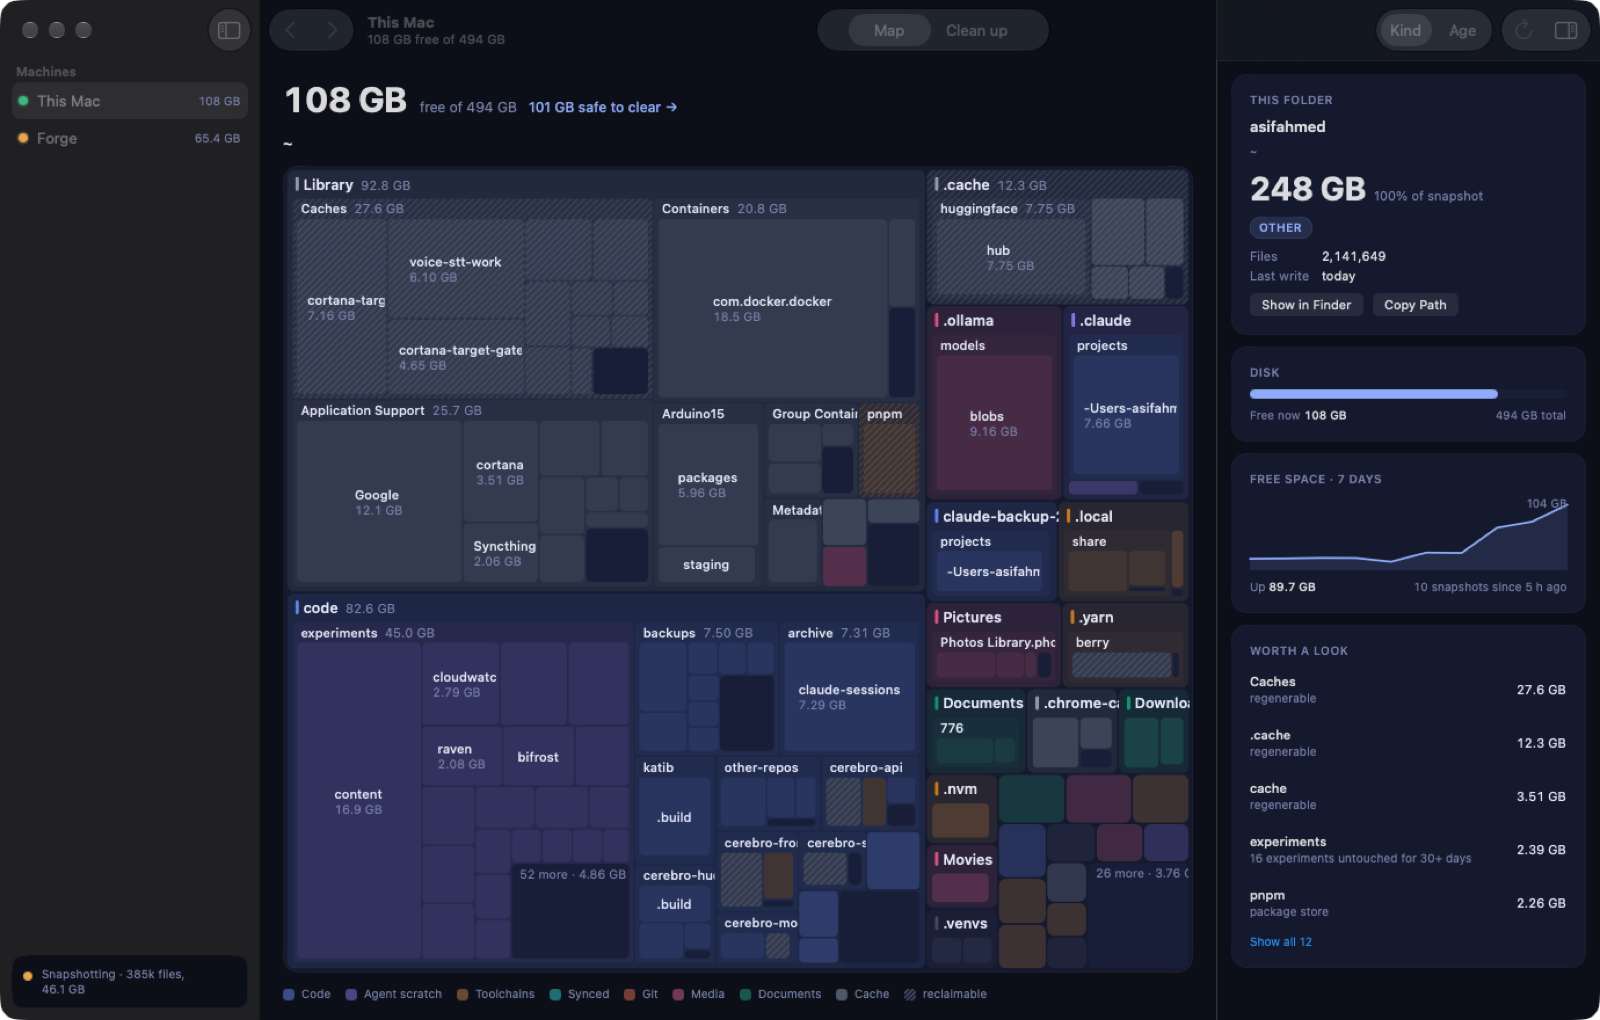
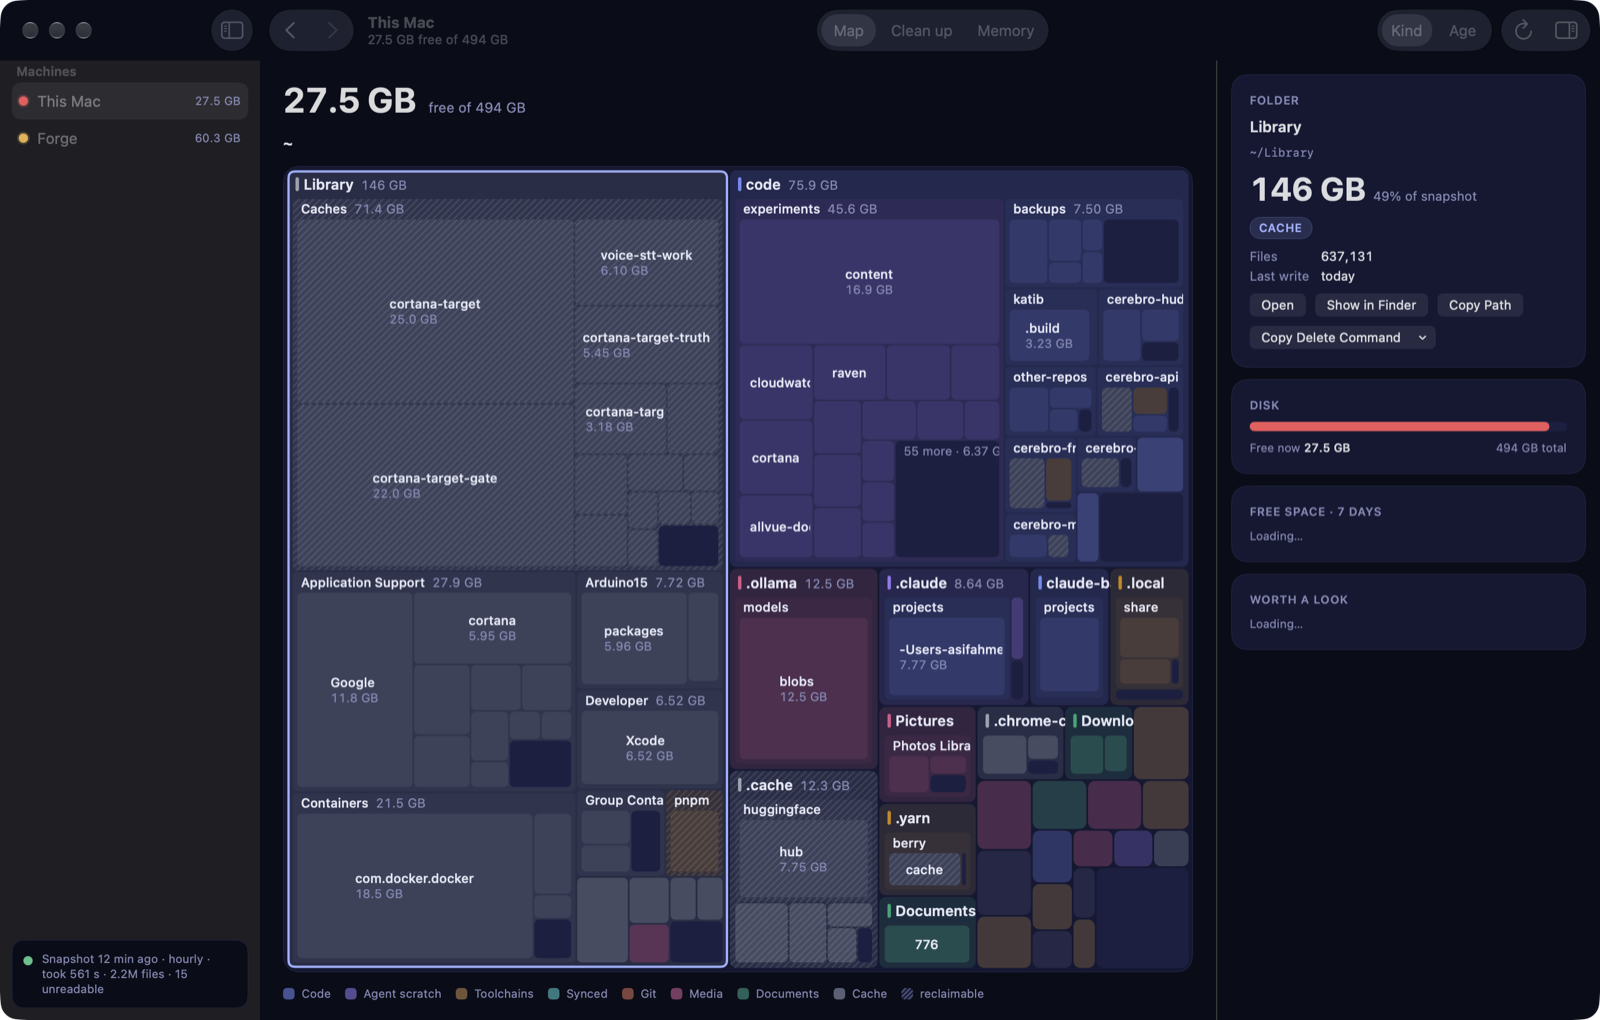
Guilty Spark docs: memory in the README, fresh screenshots, a known issue
- README: disk-mem and the Memory page; relaunch on crash; Memory screenshot.
- Map, zoom and dark screenshots retaken with the one-bar toolbar.
- GUILTY-SPARK.md: /suggest takes 5-33 s under heavy load, past the app's 30 s
  timeout (open).

diff --git a/README.md b/README.md
@@ -1,6 +1,6 @@
 # disktree
 
-> **This fork adds Guilty Spark: a read-only macOS disk advisor with hourly history.**
+> **This fork adds Guilty Spark: a read-only macOS disk and memory advisor with history.**
 > Upstream disktree is a GPUI app for Omarchy (Linux) that marks and removes files.
 > This fork keeps its core (`disktree-core`: scanning, layout, classification) and adds
 > macOS parts that **only suggest; nothing in them deletes anything**:
@@ -19,7 +19,15 @@
 >   offers Show in Finder, Copy Path and **Copy Delete Command**: the owner's cleanup for
 >   a known cache (`npm cache clean --force`, `uv cache clean`, …) or `trash '<path>'`,
 >   for you to paste. The app never deletes anything itself. The same view is also a
->   browser page at `http://127.0.0.1:7321`.
+>   browser page at `http://127.0.0.1:7321`. A launchd agent relaunches the app after a
+>   crash, and the menu panel counts crashes.
+> - **`disk-mem`**: memory over time (it replaced a swap watchdog). Every 5 minutes it
+>   records pressure, swap and each owner's memory into `mem.db`: a Claude Code session,
+>   a pm2 app, a launchd job or an app, summed across its processes. It uses
+>   `phys_footprint`, Activity Monitor's figure, not RSS, which leaves out compressed
+>   memory. It also records resident Ollama models. It notifies when pressure changes,
+>   and only then. The app's **Memory** page shows it; `disk-mem top` and
+>   `disk-mem owner NAME --days 7` answer from the terminal.
 > - **Core additions**: `ScanOptions::exclude` lists a directory without opening it.
 >   `ScanOptions::fold_below` sums small files and small directory subtrees into one
 >   leaf, keeping the files classification reads. That cut the snapper's peak memory
@@ -27,15 +35,15 @@
 >
 > ![Guilty Spark: a home directory as a treemap, with free space, the inspector and 7 days of history](assets/guilty-spark/map.png)
 >
-> | Clean up: what to delete, and why (each row: Finder, copy path, copy delete command) | Clicked into a folder | Dark |
-> |---|---|---|
-> | ![Clean up](assets/guilty-spark/cleanup.png) | ![Zoomed](assets/guilty-spark/zoom.png) | ![Dark](assets/guilty-spark/dark.png) |
+> | Clean up: what to delete, and why (each row: Finder, copy path, copy delete command) | Memory: who holds it, swap over 7 days, one owner's week | Clicked into a folder | Dark |
+> |---|---|---|---|
+> | ![Clean up](assets/guilty-spark/cleanup.png) | ![Memory](assets/guilty-spark/memory.png) | ![Zoomed](assets/guilty-spark/zoom.png) | ![Dark](assets/guilty-spark/dark.png) |
 >
 > Install, how it works, and the safety model: **[GUILTY-SPARK.md](GUILTY-SPARK.md)**.
 >
 > ```sh
 > cargo build --release -p disk-web && sh packaging/macos/sign.sh
-> sh packaging/macos/install.sh local        # hourly snapshots + API on 127.0.0.1:7321
+> sh packaging/macos/install.sh local        # hourly snapshots, memory every 5 min, API on 127.0.0.1:7321
 > apps/mac/build-app.sh                       # ~/Applications/Guilty Spark.app
 > apps/mac/harness/run.sh                     # UI harness: drives the app, checks, screenshots
 > ```

diff --git a/GUILTY-SPARK.md b/GUILTY-SPARK.md
@@ -73,6 +73,7 @@ Every claim here has a command. A claim whose check has not been run reads UNVER
 | Browser page works on desktop and phone, read-only | `PLAYWRIGHT=… node crates/disk-web/web-check.mjs` | 13/13 pass (2026-09-24) |
 | Growing fast and Came back are useful on real data | the week check: `curl -s 127.0.0.1:7321/api/h/local/suggest` after 7 days of snapshots | UNVERIFIED (needs history until 2026-10-01) |
 | Strict lints | `cargo clippy -p disk-web -p disktree-core --all-targets -- -D warnings` | 0 findings (2026-09-24). The upstream GPUI app was not built here (Linux only). |
+| Clean up loads under heavy load | harness step `clean up` (suggestions within 45 s); `curl -w %{time_total} 127.0.0.1:7321/api/h/local/suggest` | FAILING 2026-09-25 at load 80–130: `/suggest` took 5–33 s, and the app's 30 s request timeout loses the slow ones. disk-web runs at Background priority. Open. |
 | Memory owners are attributed right; imports are idempotent; thinning keeps one sample an hour | `cargo test -p disk-web mem::` | pass 2026-09-25, 8 tests |
 | Memory is sampled on both machines | `disk-mem top` on each; `curl -s 127.0.0.1:7321/api/h/forge/mem` | 2026-09-25: laptop 100 owners (Claude Code 6.5 GB, Ollama 4.5 GB, Chrome 3.9 GB); Forge 71 owners, `pm2:forge-bot` 182 MB |
 | mem-guard's history is in mem.db | `sqlite3 …/mem.db "select source,count(*) from mem_samples group by 1"` | 5,742 of 5,742 log lines imported; a re-import adds 0 (2026-09-25) |
